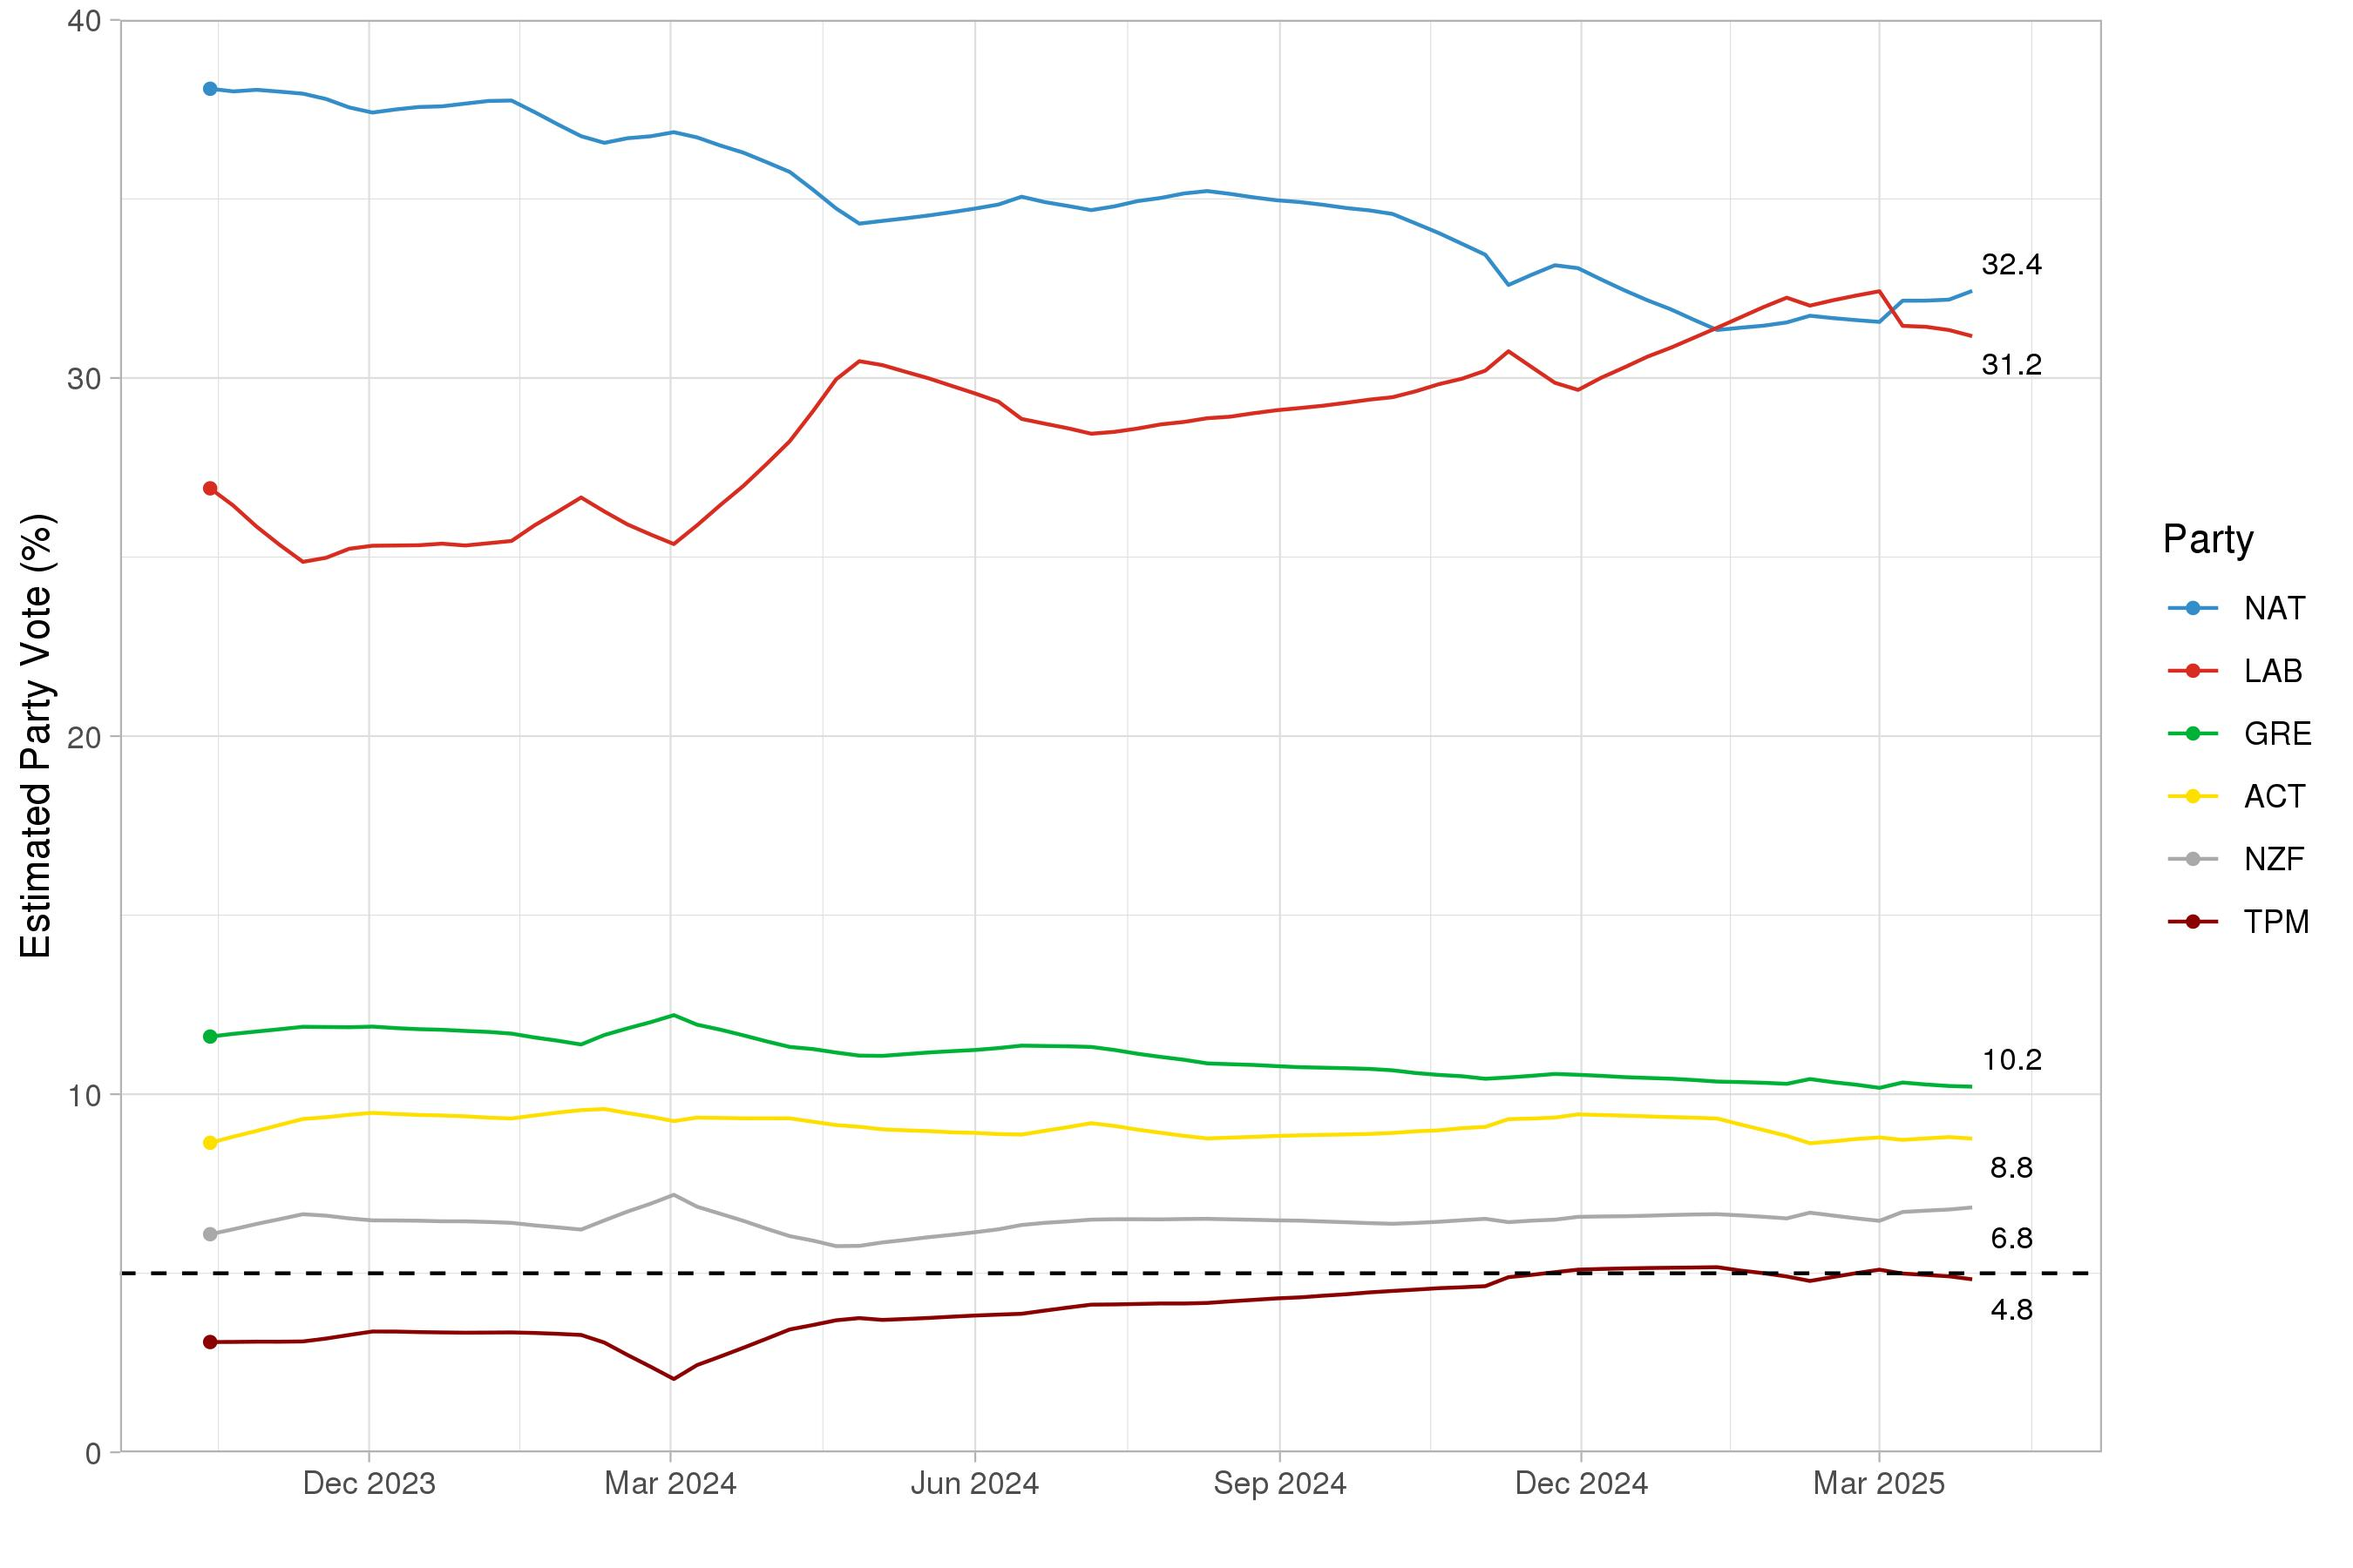
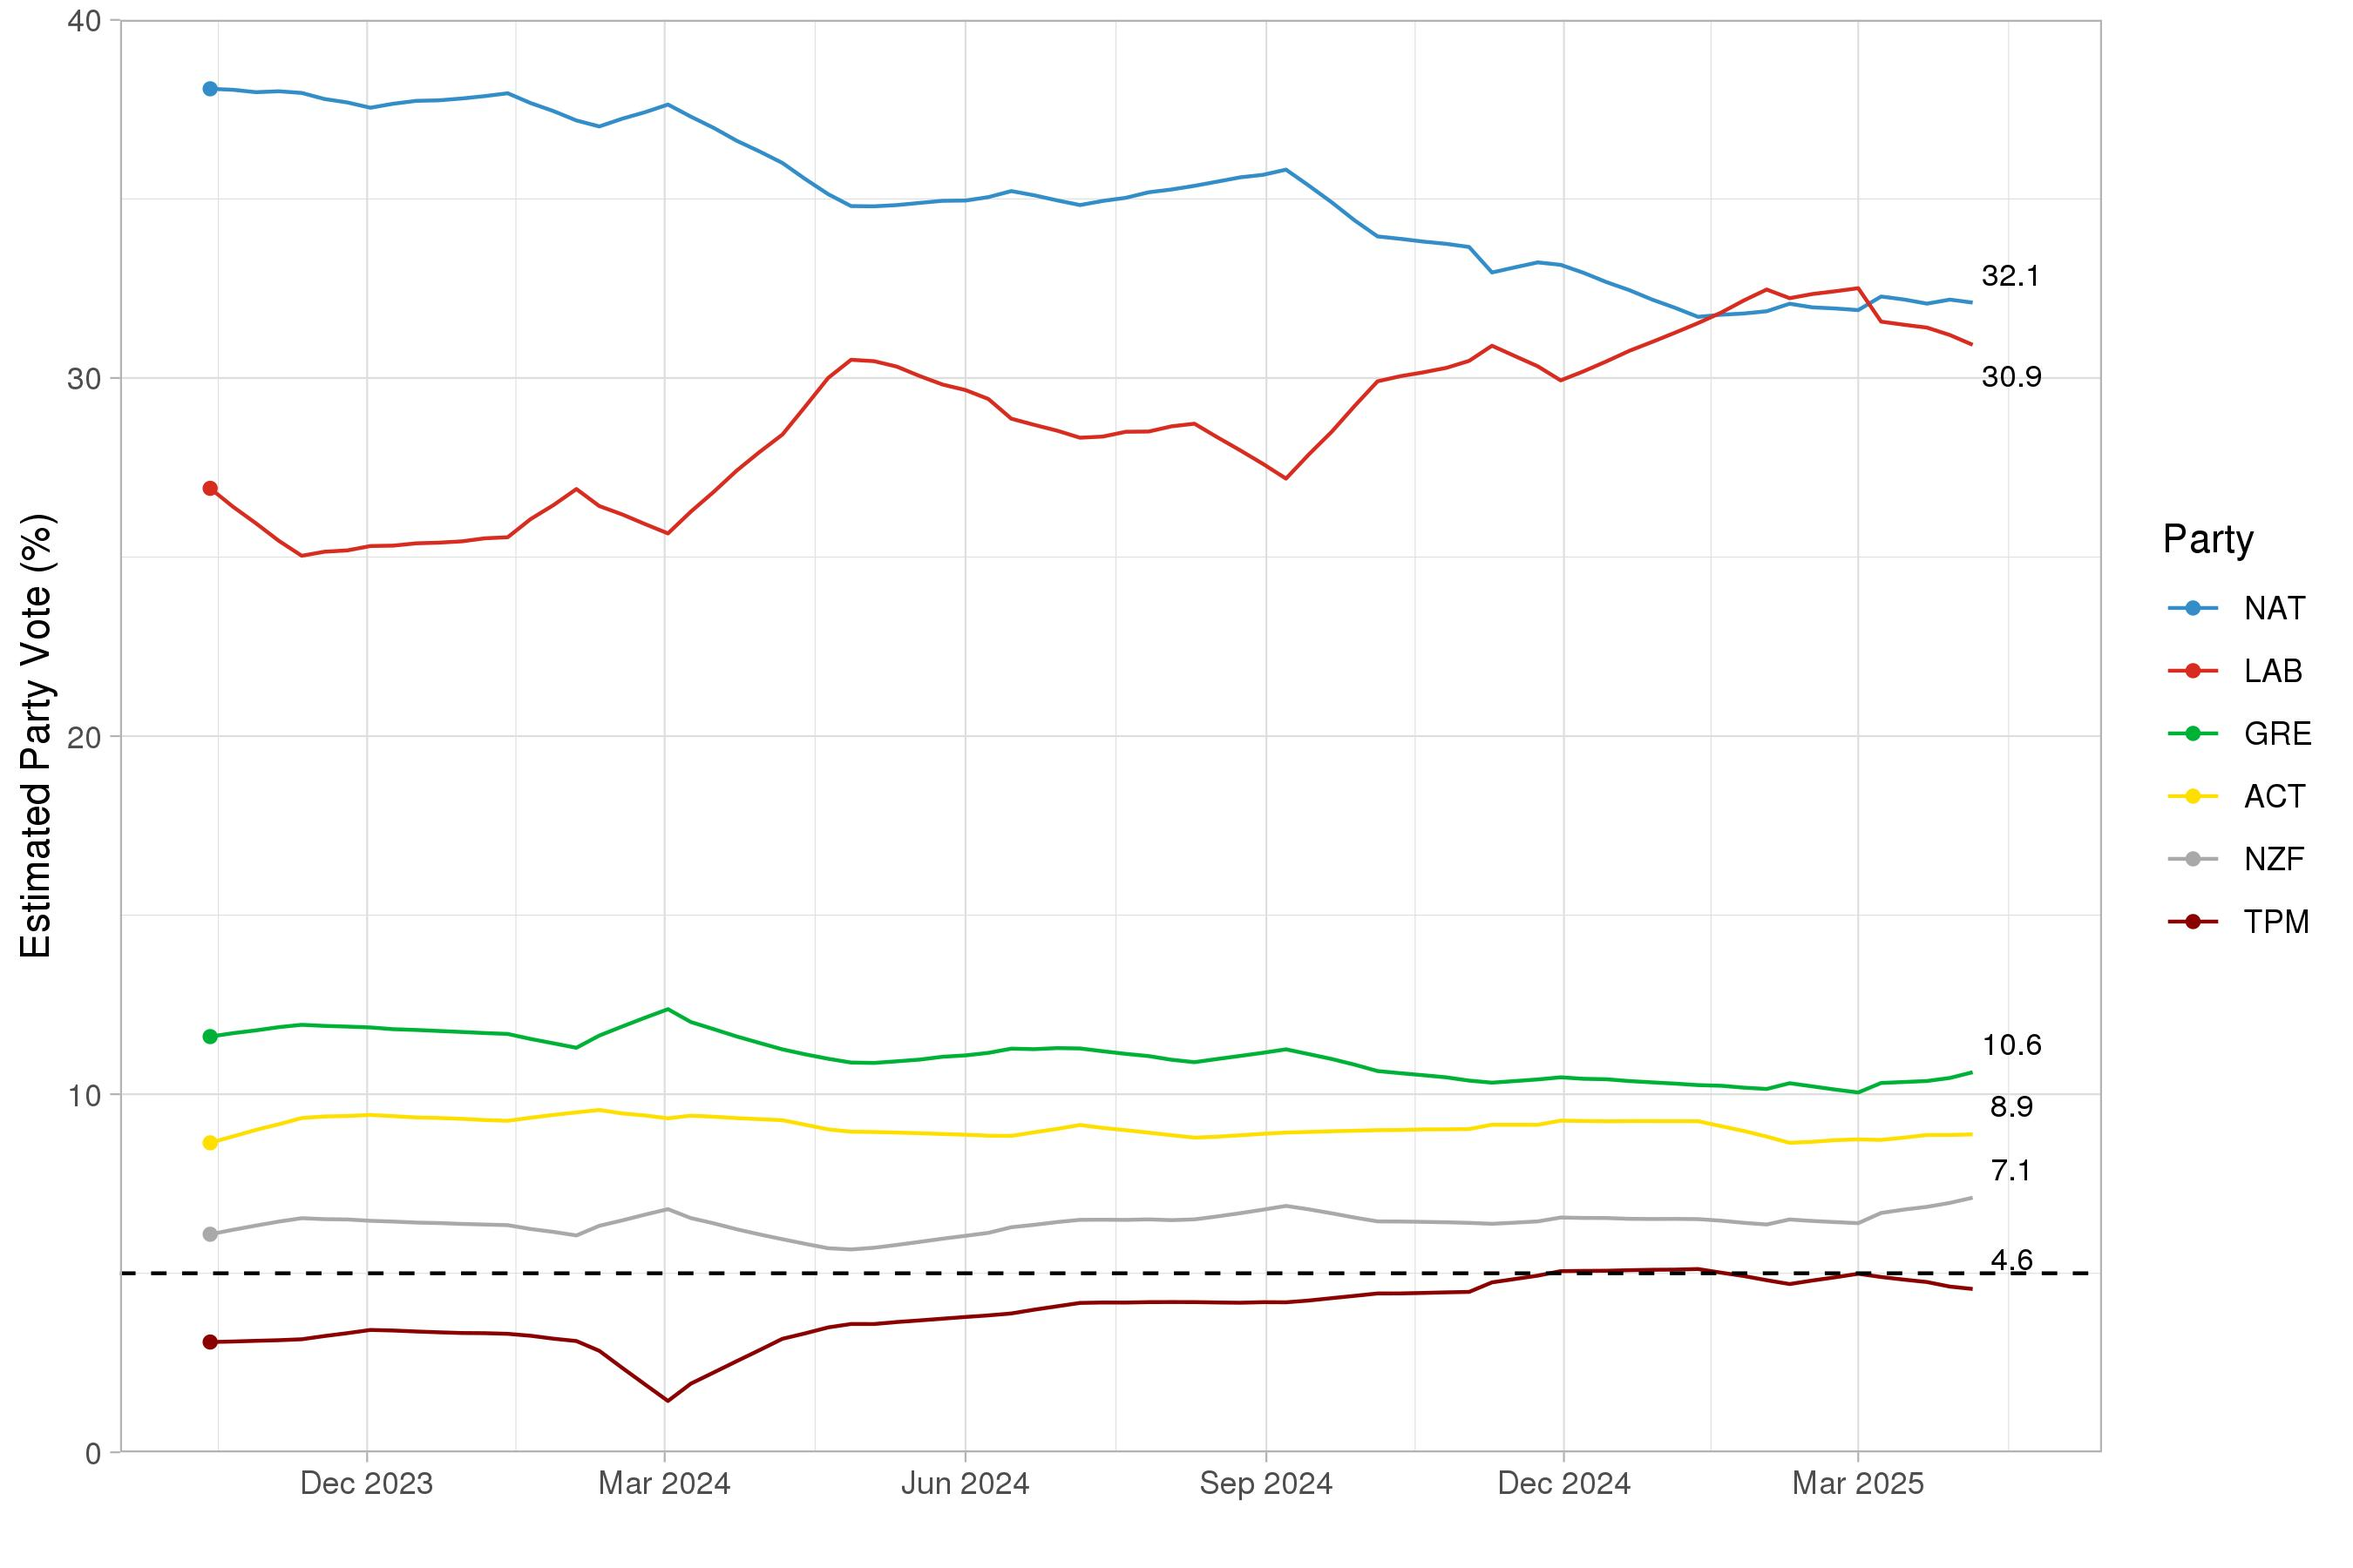
NZ Model May 2025

diff --git a/nz.html b/nz.html
@@ -30,7 +30,7 @@
 
         <h1>New Zealand</h1>
 
-	<p><i>Last Updated: 22 April 2025</i></p>
+	<p><i>Last Updated: 23 May 2025</i></p>
 
 
 	<h2> Party Support since Last Election</h2>
